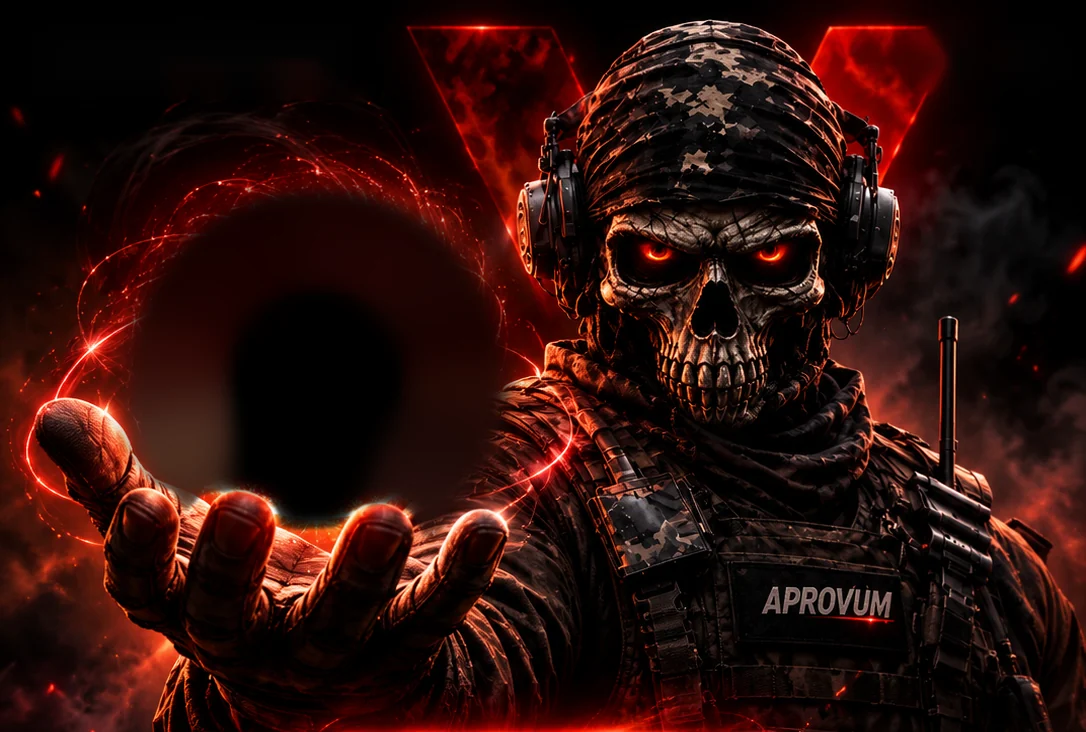
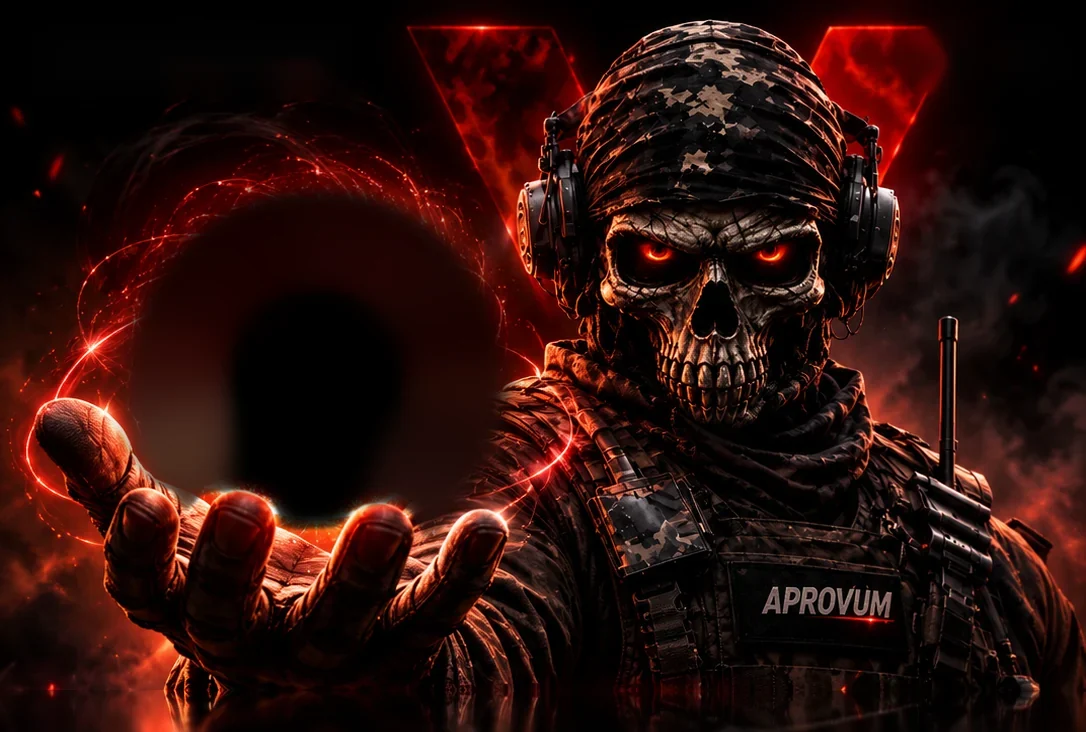
feat(home): esfera deforma com a voz, corpo do Mentor até os cards e novo botão cinematográfico
- contorno da esfera e micropartículas deformam de forma orgânica no ritmo da fala
- corpo da caveira continuado até o início dos cards, sem emenda e dissolvendo em sombra
- botão Falar com o Mentor: placa chanfrada, fonte condensada branca, luz na borda, brilho que segue o dedo e onda de toque
- ondas laterais viram ondas de voz desenhadas com o áudio real (voz do Mentor e microfone)

Claude-Session: https://claude.ai/code/session_01BiS7EyNpzhKpwbwB1NURPB

Changed region(s): [[0.0, 0.9317, 0.8204, 1.0], [0.9116, 0.9317, 1.0, 1.0], [0.8812, 0.9918, 0.9116, 1.0]]

diff --git a/src/components/missao/central-missao.css b/src/components/missao/central-missao.css
@@ -34,11 +34,16 @@
 .hm-avatar:focus-visible, .hm-engrenagem:focus-visible, .hm-voltar:focus-visible, .hm-card:focus-visible, .hm-falar:focus-visible, .hm-rodape a:focus-visible { outline: 2px solid #fff; outline-offset: 3px; }
 
 /* palco: arte do Mentor (caveira + mão aberta) e a esfera viva por cima da esfera da arte */
-.hm-palco { min-height: 0; display: flex; align-items: center; justify-content: center; }
+.hm-palco { --hm-voz-h: 72px; min-height: 0; display: flex; flex-direction: column; align-items: center; justify-content: flex-start; }
 .hm-cena { position: relative; width: 100%; aspect-ratio: 1086 / 732; max-height: 100%; animation: hm-surge 1.1s var(--hm-ease) both; }
 .hm-arte { position: absolute; inset: 0; width: 100%; height: 100%; display: block; object-fit: cover; user-select: none; pointer-events: none;
-  -webkit-mask-image: linear-gradient(180deg, transparent, #000 12%, #000 72%, transparent 100%), linear-gradient(90deg, transparent, #000 6%, #000 88%, transparent);
-  -webkit-mask-composite: source-in; mask-image: linear-gradient(180deg, transparent, #000 12%, #000 72%, transparent 100%), linear-gradient(90deg, transparent, #000 6%, #000 88%, transparent); mask-composite: intersect; }
+  -webkit-mask-image: linear-gradient(180deg, transparent, #000 12%), linear-gradient(90deg, transparent, #000 6%, #000 88%, transparent);
+  -webkit-mask-composite: source-in; mask-image: linear-gradient(180deg, transparent, #000 12%), linear-gradient(90deg, transparent, #000 6%, #000 88%, transparent); mask-composite: intersect; }
+/* o corpo continua a arte para baixo (já escurece até o preto) e passa por trás do botão até o início dos cards; sem fresta entre os dois */
+.hm-corpo { position: relative; flex: 1 1 0; min-height: 0; width: 100%; margin: -1px 0 calc(-1 * var(--hm-voz-h)); pointer-events: none; z-index: 0;
+  background: url(/home/mentor-corpo.webp) center top / 100% 100% no-repeat; animation: hm-aparece 1.1s ease both;
+  -webkit-mask-image: linear-gradient(180deg, #000 55%, transparent 100%), linear-gradient(90deg, transparent, #000 6%, #000 88%, transparent); -webkit-mask-composite: source-in;
+  mask-image: linear-gradient(180deg, #000 55%, transparent 100%), linear-gradient(90deg, transparent, #000 6%, #000 88%, transparent); mask-composite: intersect; }
 
 /* a esfera real: o anel tem raio 0,34 do lado (voz-esfera); o anel da arte mede 336 de 1086 */
 .hm-orb { position: absolute; left: 29.3%; top: 50.3%; width: 31.1%; aspect-ratio: 1; transform: translate(-50%, -50%); display: flex; z-index: 3; pointer-events: none; }
@@ -85,26 +90,39 @@
 /* botão "Falar com o Mentor" */
 .hm-voz { padding: 0 16px; }
 .hm-falar-caixa { display: flex; flex-direction: column; align-items: center; gap: 2px; }
-.hm-falar-linha { display: flex; align-items: center; justify-content: center; gap: 10px; width: 100%; }
-.hm-falar { position: relative; display: inline-flex; align-items: center; justify-content: center; gap: 10px; flex: 0 1 270px; min-height: 52px; padding: 0 22px; font: inherit; font-size: 16px; font-weight: 700; color: var(--hm-gelo); cursor: pointer; -webkit-tap-highlight-color: transparent;
-  background: rgb(0 0 0 / 0.62); border: 1.5px solid var(--cm-red2); border-radius: 999px;
-  box-shadow: 0 0 22px -2px rgb(255 37 45 / 0.6), inset 0 0 18px rgb(215 25 32 / 0.25);
-  transition: background 0.25s, box-shadow 0.3s, transform 0.2s var(--hm-ease); }
-.hm-falar::after { content: ""; position: absolute; inset: -1.5px; border-radius: inherit; border: 1.5px solid var(--cm-red2); pointer-events: none; animation: hm-pulso 2.4s ease-out infinite; }
-@keyframes hm-pulso { 0% { opacity: 0.7; transform: scale(1); } 100% { opacity: 0; transform: scale(1.14, 1.5); } }
-.hm-falar:hover:not(:disabled) { background: rgb(215 25 32 / 0.2); box-shadow: 0 0 34px 0 rgb(255 37 45 / 0.7), inset 0 0 20px rgb(215 25 32 / 0.35); }
-.hm-falar:active:not(:disabled) { transform: scale(0.97); }
-.hm-falar:disabled { opacity: 0.75; cursor: default; }
-.hm-falar[data-estado="ao-vivo"] { background: var(--cm-red); box-shadow: 0 0 40px rgb(255 37 45 / 0.65); }
-.hm-falar[data-estado="ao-vivo"]::after, .hm-falar[data-estado="conectando"]::after { animation: none; opacity: 0; }
+.hm-falar-linha { display: flex; align-items: center; justify-content: center; gap: 8px; width: 100%; }
+@font-face { font-family: "HM Cine"; font-weight: 600; font-style: normal; font-display: swap; src: url("/fonts/BarlowCondensed-SemiBold.woff2") format("woff2"); }
+/* botão: placa chanfrada (mesma linguagem dos cards), borda de luz que corre, vidro fumê, brilho que segue o dedo e onda de toque */
+.hm-falar { --c: 15px; position: relative; isolate: isolate; display: inline-flex; align-items: center; justify-content: center; flex: 0 1 262px; min-height: 58px; padding: 0 18px; font: 600 18px/1 "HM Cine", "Barlow Condensed", "Arial Narrow", Inter, sans-serif; letter-spacing: 0.15em; text-transform: uppercase; color: #fff; cursor: pointer; background: none; border: 0; -webkit-tap-highlight-color: transparent; touch-action: manipulation;
+  filter: drop-shadow(0 0 14px rgb(255 37 45 / 0.45)) drop-shadow(0 8px 14px rgb(0 0 0 / 0.7)); transition: transform 0.25s var(--hm-ease), filter 0.3s; }
+.hm-falar-borda, .hm-falar-face { position: absolute; clip-path: polygon(var(--c) 0, calc(100% - var(--c)) 0, 100% var(--c), 100% calc(100% - var(--c)), calc(100% - var(--c)) 100%, var(--c) 100%, 0 calc(100% - var(--c)), 0 var(--c)); }
+.hm-falar-borda { inset: 0; overflow: hidden; container-type: size; background: linear-gradient(160deg, rgb(255 70 76 / 0.85), rgb(120 12 18 / 0.6) 50%, rgb(255 60 66 / 0.8)); z-index: -2; }
+.hm-falar-borda::before { content: ""; position: absolute; left: 50%; top: 50%; width: 260cqmax; aspect-ratio: 1; translate: -50% -50%; background: conic-gradient(from 0deg, transparent 0 55%, rgb(255 32 44 / 0.95) 85%, #fff 98%, transparent 100%); animation: hm-giro 3.4s linear infinite; will-change: transform; }
+.hm-falar-face { --c: 14.4px; inset: 1.6px; overflow: hidden; z-index: -1; background: linear-gradient(180deg, rgb(34 6 8 / 0.94), rgb(6 0 0 / 0.96)); transition: background 0.35s; }
+.hm-falar-face::before { content: ""; position: absolute; inset: 0; background: radial-gradient(120px circle at var(--mx, 50%) var(--my, 50%), rgb(255 60 64 / 0.38), transparent 70%); opacity: 0; transition: opacity 0.3s; }
+.hm-falar-face::after { content: ""; position: absolute; top: 0; bottom: 0; left: -40%; width: 30%; background: linear-gradient(100deg, transparent, rgb(255 255 255 / 0.22), transparent); transform: skewX(-18deg) translateX(0); opacity: 0; }
+.hm-falar-conteudo { position: relative; display: inline-flex; align-items: center; gap: 10px; white-space: nowrap; text-shadow: 0 0 14px rgb(255 50 56 / 0.75), 0 1px 0 rgb(0 0 0 / 0.6); }
+.hm-falar-conteudo svg { flex: none; filter: drop-shadow(0 0 6px rgb(255 60 66 / 0.9)); }
+.hm-falar-texto { margin-right: -0.15em; }
+@media (hover: hover) {
+  .hm-falar:hover:not(:disabled) { transform: translateY(-1px); filter: drop-shadow(0 0 22px rgb(255 37 45 / 0.75)) drop-shadow(0 8px 14px rgb(0 0 0 / 0.7)); }
+  .hm-falar:hover:not(:disabled) .hm-falar-face::before { opacity: 1; }
+  .hm-falar:hover:not(:disabled) .hm-falar-face::after { opacity: 1; animation: hm-brilho 0.9s var(--hm-ease) both; }
+  .hm-falar:hover:not(:disabled) .hm-falar-borda::before { animation-duration: 1.6s; }
+}
+.hm-falar:active:not(:disabled) { transform: scale(0.965); }
+.hm-falar:active:not(:disabled) .hm-falar-face::before { opacity: 1; }
+.hm-falar:disabled { cursor: default; filter: drop-shadow(0 0 10px rgb(255 37 45 / 0.35)); }
+.hm-falar[data-estado="ao-vivo"] .hm-falar-face { background: linear-gradient(180deg, rgb(215 25 32 / 0.9), rgb(110 8 14 / 0.95)); }
+.hm-falar[data-estado="ao-vivo"] .hm-falar-borda::before { animation-duration: 1.8s; }
+.hm-falar[data-estado="conectando"] .hm-falar-borda::before { animation-duration: 1.1s; }
+.hm-toque { position: absolute; left: var(--x); top: var(--y); width: 12px; height: 12px; margin: -6px 0 0 -6px; border-radius: 50%; pointer-events: none; background: radial-gradient(circle, rgb(255 255 255 / 0.6), rgb(255 60 64 / 0.4) 50%, transparent 72%); animation: hm-toque 0.65s ease-out forwards; }
+@keyframes hm-toque { to { transform: scale(30); opacity: 0; } }
+@keyframes hm-brilho { from { transform: skewX(-18deg) translateX(0); } to { transform: skewX(-18deg) translateX(520%); } }
 .hm-falar-info { min-height: 18px; margin: 0; font-size: 12.5px; color: var(--hm-cinza); text-align: center; }
 
-/* ondas sonoras: só se mexem enquanto a conversa está ao vivo */
-.hm-ondas { display: flex; align-items: center; gap: 3px; height: 30px; flex: 0 0 auto; }
-.hm-ondas:first-child { flex-direction: row-reverse; }
-.hm-ondas i { width: 3px; height: 100%; border-radius: 2px; background: linear-gradient(180deg, #ff6a5a, var(--cm-red)); transform: scaleY(calc(0.18 + (6 - var(--i)) * 0.05)); opacity: calc(0.85 - var(--i) * 0.09); transform-origin: 50% 50%; }
-.hm[data-fase="escutando"] .hm-ondas i, .hm[data-fase="respondendo"] .hm-ondas i { animation: hm-onda 0.9s ease-in-out infinite; animation-delay: calc(var(--i) * -0.13s); }
-@keyframes hm-onda { 0%, 100% { transform: scaleY(0.2); } 50% { transform: scaleY(calc(1 - var(--i) * 0.08)); } }
+/* onda de voz ao lado do botão (canvas desenhado com o áudio real) */
+.hm-onda-voz { flex: 1 1 0; min-width: 0; max-width: 78px; height: 38px; display: block; pointer-events: none; }
 .hm-gira { animation: hm-giro 0.8s linear infinite; }
 @keyframes hm-giro { to { rotate: 360deg; } }
 
@@ -176,6 +194,7 @@
 /* celular: a arte passa um pouco da largura da tela (as bordas são só fumaça) para o Mentor ocupar mais do palco */
 @media (max-width: 599px) {
   .hm-cena { flex: none; width: 116%; left: 4.5%; }
+  .hm-corpo { flex-basis: 0; width: 116%; left: 4.5%; }
 }
 
 /* telas baixas: cards menores para o Mentor continuar inteiro */
@@ -189,8 +208,9 @@
     grid-template-areas: "topo topo" "palco voz" "palco cards" "rodape rodape"; align-items: center; }
   .hm-topo { grid-area: topo; padding: 20px 40px 0; }
   .hm-logo { height: 32px; }
-  .hm-palco { grid-area: palco; padding: 0 0 0 24px; height: 100%; }
+  .hm-palco { grid-area: palco; padding: 0 0 0 24px; height: 100%; justify-content: center; --hm-voz-h: 0px; }
   .hm-cena { width: min(100%, calc((100dvh - 150px) * 1.483)); }
+  .hm-corpo { flex: none; width: min(100%, calc((100dvh - 150px) * 1.483)); height: clamp(70px, 15dvh, 150px); }
   .hm-voz { grid-area: voz; align-self: end; padding: 0 40px 0 16px; }
   .hm-cards { grid-area: cards; align-self: start; padding: 20px 40px 0 16px; gap: 18px; }
   .hm-card { height: clamp(240px, 38dvh, 360px); --c: 24px; }

diff --git a/src/components/missao/falar-mentor.tsx b/src/components/missao/falar-mentor.tsx
@@ -1,6 +1,6 @@
 "use client";
 
-import { useState, type CSSProperties } from "react";
+import { useEffect, useRef, useState, type PointerEvent as PE, type RefObject } from "react";
 import { Loader2, Mic, PhoneOff } from "lucide-react";
 import { MentorVoz, type EstadoVoz } from "@/components/mentor/mentor-voz";
 import type { Bands, Conexao } from "@/components/mentor/skull-orb-fx";
@@ -19,6 +19,9 @@ export type FaseMentor = "repouso" | "processando" | "escutando" | "respondendo"
  */
 export function FalarComMentor({ ativo, onAtivo, onNivel, onConn, onFase }: { ativo: boolean; onAtivo: (v: boolean) => void; onNivel: (fn: (() => Bands) | null) => void; onConn: (c: Conexao) => void; /** Estado real da conversa, para a cena reagir (repouso, escutando, processando, respondendo, erro). */ onFase?: (f: FaseMentor) => void }) {
   const [e, setE] = useState<EstadoVoz | null>(null);
+  // a mesma fonte de áudio real que alimenta a esfera também desenha as ondas ao lado do botão
+  const fonteRef = useRef<(() => Bands) | null>(null);
+  const caixaRef = useRef<HTMLSpanElement | null>(null);
   const [aviso, setAviso] = useState<string | null>(null);
   const fase = ativo ? e?.fase ?? "carregando" : "pronto";
   const aoVivo = fase === "ao-vivo";
@@ -31,7 +34,7 @@ export function FalarComMentor({ ativo, onAtivo, onNivel, onConn, onFase }: { at
     // plano gratuito, saldo esgotado ou falha: a sessão não abre, então o botão volta a ficar livre
     if (x.fase === "plano" || x.fase === "esgotado" || x.fase === "indisponivel" || x.fase === "erro" || x.fase === "encerrada") {
       setAviso(x.msg ?? AVISO[x.fase] ?? null);
-      onNivel(null);
+      onNivel(null); fonteRef.current = null;
       queueMicrotask(() => onAtivo(false));
     }
   };
@@ -44,34 +47,51 @@ export function FalarComMentor({ ativo, onAtivo, onNivel, onConn, onFase }: { at
           autoStart
           boasVindas
           onEstado={estado}
-          onLevel={onNivel}
+          onLevel={(fn) => { fonteRef.current = fn; onNivel(fn); }}
         />
       )}
       <div className="hm-falar-linha">
-      <Ondas />
-      <button
-        type="button"
-        className="hm-falar"
-        data-estado={aoVivo ? "ao-vivo" : conectando ? "conectando" : "parado"}
-        aria-pressed={aoVivo}
-        disabled={conectando}
-        onClick={() => {
-          if (ativo) {
-            onNivel(null);
-            onConn("live");
-            onFase?.("repouso");
-            onAtivo(false);
-          } else {
-            setE(null);
-            setAviso(null);
-            onAtivo(true);
-          }
-        }}
-      >
-        {conectando ? <Loader2 size={17} className="hm-gira" aria-hidden /> : aoVivo ? <PhoneOff size={17} aria-hidden /> : <Mic size={17} aria-hidden />}
-        <span>{conectando ? "Conectando…" : aoVivo ? "Encerrar conversa" : "Falar com o Mentor"}</span>
-      </button>
-      <Ondas />
+        <OndaVoz lado="e" fonte={fonteRef} ativo={aoVivo} />
+        <button
+          type="button"
+          className="hm-falar"
+          data-estado={aoVivo ? "ao-vivo" : conectando ? "conectando" : "parado"}
+          aria-pressed={aoVivo}
+          disabled={conectando}
+          onPointerMove={(ev: PE<HTMLButtonElement>) => {
+            const r = ev.currentTarget.getBoundingClientRect();
+            ev.currentTarget.style.setProperty("--mx", `${ev.clientX - r.left}px`);
+            ev.currentTarget.style.setProperty("--my", `${ev.clientY - r.top}px`);
+          }}
+          onPointerDown={(ev: PE<HTMLButtonElement>) => {
+            // onda de toque que nasce no ponto exato do dedo
+            const alvo = caixaRef.current; if (!alvo) return;
+            const r = ev.currentTarget.getBoundingClientRect();
+            const t = document.createElement("i"); t.className = "hm-toque";
+            t.style.setProperty("--x", `${ev.clientX - r.left}px`); t.style.setProperty("--y", `${ev.clientY - r.top}px`);
+            t.addEventListener("animationend", () => t.remove()); alvo.appendChild(t);
+          }}
+          onClick={() => {
+            if (ativo) {
+              onNivel(null); fonteRef.current = null;
+              onConn("live");
+              onFase?.("repouso");
+              onAtivo(false);
+            } else {
+              setE(null);
+              setAviso(null);
+              onAtivo(true);
+            }
+          }}
+        >
+          <span className="hm-falar-borda" aria-hidden />
+          <span className="hm-falar-face" aria-hidden ref={caixaRef} />
+          <span className="hm-falar-conteudo">
+            {conectando ? <Loader2 size={18} className="hm-gira" aria-hidden /> : aoVivo ? <PhoneOff size={18} aria-hidden /> : <Mic size={18} aria-hidden />}
+            <span className="hm-falar-texto">{conectando ? "Conectando" : aoVivo ? "Encerrar" : "Falar com o Mentor"}</span>
+          </span>
+        </button>
+        <OndaVoz lado="d" fonte={fonteRef} ativo={aoVivo} />
       </div>
       <p className="hm-falar-info" role="status" aria-live="polite">
         {aoVivo ? (e?.speaking ? "Mentor falando" : "Mentor ouvindo") : ativo ? null : aviso}
@@ -80,11 +100,59 @@ export function FalarComMentor({ ativo, onAtivo, onNivel, onConn, onFase }: { at
   );
 }
 
-/** Barras de som ao lado do botão: só se mexem com a conversa ao vivo (o CSS lê o data-estado do botão vizinho). */
-function Ondas() {
-  return (
-    <span className="hm-ondas" aria-hidden>
-      {[0, 1, 2, 3, 4, 5, 6].map((i) => <i key={i} style={{ "--i": i } as CSSProperties} />)}
-    </span>
-  );
+/**
+ * Onda de voz ao lado do botão: linhas senoidais em camadas (estilo assistente de voz) desenhadas num canvas.
+ * A amplitude segue o áudio real (voz do Mentor e microfone do aluno); em repouso é só uma respiração discreta.
+ */
+function OndaVoz({ lado, fonte, ativo }: { lado: "e" | "d"; fonte: RefObject<(() => Bands) | null>; ativo: boolean }) {
+  const ref = useRef<HTMLCanvasElement | null>(null);
+  const ativoRef = useRef(ativo);
+  useEffect(() => { ativoRef.current = ativo; }, [ativo]);
+  useEffect(() => {
+    const cv = ref.current; if (!cv) return;
+    const ctx = cv.getContext("2d"); if (!ctx) return;
+    const reduzir = window.matchMedia("(prefers-reduced-motion: reduce)").matches;
+    let w = 0, h = 0, dpr = 1, raf = 0, ultimo = 0, nivel = 0, fase = 0, visivel = true;
+    const medir = () => {
+      dpr = Math.min(2, window.devicePixelRatio || 1);
+      w = cv.clientWidth; h = cv.clientHeight;
+      cv.width = Math.max(1, Math.round(w * dpr)); cv.height = Math.max(1, Math.round(h * dpr));
+      ctx.setTransform(dpr, 0, 0, dpr, 0, 0);
+    };
+    medir();
+    const ro = new ResizeObserver(medir); ro.observe(cv);
+    const io = new IntersectionObserver(([en]) => { visivel = !!en?.isIntersecting; }); io.observe(cv);
+    // camadas: [frequência, velocidade, amplitude relativa, espessura, alfa, branco]
+    const camadas: [number, number, number, number, number, boolean][] = [
+      [1.7, 2.3, 0.6, 3.4, 0.18, false], [2.3, -3.1, 0.8, 2.2, 0.35, false], [3.1, 4.2, 1, 1.5, 0.95, true],
+    ];
+    const desenhar = (t: number) => {
+      const dt = Math.min(0.05, (t - ultimo) / 1000 || 0.016); ultimo = t;
+      const b = ativoRef.current ? fonte.current?.() : null;
+      const alvo = b ? Math.min(1, Math.max(b.me ?? b.vol ?? 0, (b.mic ?? 0) * 1.1)) : 0;
+      nivel += (alvo - nivel) * (1 - Math.exp(-dt * (alvo > nivel ? 14 : 6)));
+      fase += dt * (0.8 + nivel * 2.4);
+      ctx.clearRect(0, 0, w, h);
+      const meio = h / 2;
+      const base = ativoRef.current ? 0.09 : 0.14 + 0.05 * Math.sin(t / 900);
+      const amp = (base + nivel * 0.95) * (h * 0.46);
+      for (const [f, v, k, esp, alfa, branco] of camadas) {
+        ctx.beginPath();
+        for (let x = 0; x <= w; x += 1.5) {
+          const u = x / w;                                   // 0 = lado do botão, 1 = ponta externa
+          const lado_u = lado === "e" ? 1 - u : u;           // 0 junto ao botão, 1 na ponta
+          const env = Math.pow(Math.sin(Math.PI * Math.min(1, (1 - lado_u) * 0.92 + 0.04)), 1.1) * (1 - lado_u * 0.35);
+          const y = meio + Math.sin(lado_u * Math.PI * 2 * f - fase * v) * amp * k * env + Math.sin(lado_u * 9 + fase * 1.7 * k) * amp * 0.12 * env * nivel;
+          if (x === 0) ctx.moveTo(x, y); else ctx.lineTo(x, y);
+        }
+        ctx.lineWidth = esp; ctx.lineJoin = "round"; ctx.lineCap = "round";
+        ctx.strokeStyle = branco ? `rgba(255,236,232,${alfa})` : `rgba(255,48,56,${alfa})`;
+        ctx.stroke();
+      }
+    };
+    const laco = (t: number) => { raf = requestAnimationFrame(laco); if (visivel && !document.hidden) desenhar(t); };
+    if (reduzir) desenhar(0); else raf = requestAnimationFrame(laco);
+    return () => { cancelAnimationFrame(raf); ro.disconnect(); io.disconnect(); };
+  }, [lado, fonte]);
+  return <canvas ref={ref} className="hm-onda-voz" data-lado={lado} aria-hidden />;
 }

diff --git a/src/components/mentor-cena/mentor-orb-3d.ts b/src/components/mentor-cena/mentor-orb-3d.ts
@@ -1,5 +1,5 @@
 import * as THREE from "three";
-import { OCLUSAO, RUIDO } from "./glsl";
+import { DEFORMA_VOZ, OCLUSAO, RUIDO } from "./glsl";
 import type { AlvoCena } from "./estado-mentor";
 import type { Qualidade } from "./qualidade";
 
@@ -48,6 +48,7 @@ const FRAG_PLASMA = /* glsl */ `
 precision highp float;
 ${RUIDO}
 ${OCLUSAO}
+${DEFORMA_VOZ}
 uniform float uTime, uBrilho, uPulso, uEspiral, uAudio;
 varying vec2 vP;
 void main(){
@@ -57,7 +58,7 @@ void main(){
   float e1 = noise(cs * 2.0 + vec2(t * .55, t * .3));
   float e2 = noise(cs * 5.0 + vec2(-t * .7, t * .4 + 4.));
   float e3 = noise(cs * 13.0 + vec2(t * 1.1, 9.));
-  float rr = 1.0 + (e1 - .5) * .06 + (e2 - .5) * .032 + (e3 - .5) * .01 + uPulso * .01 * sin(t * 1.5);
+  float rr = 1.0 + (e1 - .5) * .06 + (e2 - .5) * .032 + (e3 - .5) * .01 + uPulso * .01 * sin(t * 1.5) + deformaVoz(cs, t, uAudio);
   float d = len - rr;
   float w = .02 + .012 * e2;
   float quente = exp(-d * d / (w * w));
@@ -85,9 +86,10 @@ void main(){
 
 /** Micropartículas dentro da esfera: pairam à deriva (sem giro), com profundidade de campo, luz rasante nas bordas e cintilações raras. */
 const VERT_INTERNAS = /* glsl */ `
+${DEFORMA_VOZ}
 attribute vec3 aS; // x: frequência de cintilação, y: tamanho (0 a 1), z: fase
 attribute vec4 aD; // frequências de deriva em x, y e z e a amplitude
-uniform vec2 uCenter; uniform float uR, uAnim, uPx, uEspiral;
+uniform vec2 uCenter; uniform float uR, uAnim, uPx, uEspiral, uTime, uAudio;
 varying float vA; varying float vSoft; varying float vQ; varying float vGlint;
 void main(){
   float t = uAnim;
@@ -101,6 +103,8 @@ void main(){
   float ay = t * .03; float cy = cos(ay), sy = sin(ay);
   p = vec3(cy * p.x + sy * p.z, p.y, -sy * p.x + cy * p.z);
   p *= min(1., .93 / max(length(p), .0001));
+  // o interior acompanha a deformação do contorno (mais perto da borda, mais acompanha)
+  p.xy *= 1. + deformaVoz(normalize(p.xy + vec2(1e-5)), uTime, uAudio) * length(p.xy);
   float prof = p.z * .5 + .5;
   gl_Position = projectionMatrix * viewMatrix * vec4(uCenter + p.xy * uR, 0., 1.);
   float tam = 1. + aS.y * aS.y * 3.4;
@@ -248,7 +252,7 @@ export class MentorOrb3D {
     }
     const gI = new THREE.BufferGeometry();
     gI.setAttribute("position", new THREE.BufferAttribute(pos, 3)); gI.setAttribute("aS", new THREE.BufferAttribute(seed, 3)); gI.setAttribute("aD", new THREE.BufferAttribute(deriva, 4));
-    this.internasMat = materialAditivo({ vertexShader: VERT_INTERNAS, fragmentShader: FRAG_INTERNAS, uniforms: { ...base } });
+    this.internasMat = materialAditivo({ vertexShader: VERT_INTERNAS, fragmentShader: FRAG_INTERNAS, uniforms: { ...base, uAudio: this.uniforms.uAudio } });
     this.internas = new THREE.Points(gI, this.internasMat);
     this.internas.frustumCulled = false; this.internas.renderOrder = 11;
 
@@ -284,7 +288,7 @@ export class MentorOrb3D {
   private comuns: UniformsComuns;
 
   /** OrbAnimationController: levitação lenta e respiração suave guiada pelo áudio (já suavizado). Nada é emitido da esfera. */
-  atualizar(dt: number, e: AlvoCena, audio: number, escala = 1) {
+  atualizar(dt: number, e: AlvoCena, audio: number, escala = 1, deforma = 0) {
     this.tempo += dt;
     this.anim += dt * e.rapidez;
     const t = this.tempo;
@@ -294,7 +298,7 @@ export class MentorOrb3D {
     u.uCenter.value.set(this.cx, this.cy);
     u.uTime.value = t; u.uAnim.value = this.anim;
     u.uBrilho.value = e.brilho * (0.95 + 0.05 * Math.sin(t * 1.3));
-    u.uPulso.value = e.pulso; u.uEspiral.value = e.espiral; u.uAudio.value = audio;
+    u.uPulso.value = e.pulso; u.uEspiral.value = e.espiral; u.uAudio.value = deforma;
     // contração e expansão da esfera inteira (anel, núcleo, micropartículas e luz) no ritmo da voz
     u.uR.value = PALMA.raio * escala;
     this.comuns.uOrbR.value = PALMA.raio * escala;

diff --git a/src/components/mentor-cena/glsl.ts b/src/components/mentor-cena/glsl.ts
@@ -17,3 +17,15 @@ uniform vec2 uRes;
 float ocluido(float forca){ return texture2D(uMatte, gl_FragCoord.xy / uRes).r * forca; }
 float ocluidoMao(float forca){ return texture2D(uMatte, gl_FragCoord.xy / uRes).g * forca; }
 `;
+
+/**
+ * Deformação do contorno pela voz (estilo orb de voz): harmônicas angulares inteiras (sem emenda) que giram em velocidades
+ * diferentes; `a` (0 a 1) é a energia da fala já suavizada. Devolve a variação do raio relativa ao raio da esfera.
+ */
+export const DEFORMA_VOZ = /* glsl */ `
+float deformaVoz(vec2 dir, float t, float a){
+  float g = atan(dir.y, dir.x);
+  float d = .5 * sin(g * 2. + t * 1.9) + .36 * sin(g * 3. - t * 2.6 + 1.3) + .22 * sin(g * 4. + t * 3.4 + 2.1) + .12 * sin(g * 6. - t * 4.3);
+  return d * min(1., a * 1.25) * .115;
+}
+`;

diff --git a/src/components/mentor-cena/mentor-engine.ts b/src/components/mentor-cena/mentor-engine.ts
@@ -96,7 +96,7 @@ export function criarMotor(canvas: HTMLCanvasElement, op: OpcoesMotor): MotorCen
     tempo += dt;
     lerAudio(dt);
     atual = suavizar(atual, alvoDaFase(fase, audio), dt, 2.2);
-    orb.atualizar(dt, atual, audio, escalaDaVoz(fala, audio));
+    orb.atualizar(dt, atual, audio, escalaDaVoz(fala, audio), audio * fala);
     brasas.atualizar(dt, atual, tempo);
   };
   const desenhar = () => renderer.render(scene, camera);

diff --git a/src/components/missao/central-missao.tsx b/src/components/missao/central-missao.tsx
@@ -118,6 +118,8 @@ export function CentralMissao({ primeiroNome, email, objetivo, materias, concurs
             </>
           )}
         </div>
+        {/* continuação do corpo: segue a arte sem emenda e termina em sombra exatamente onde começam os cards */}
+        <div className="hm-corpo" aria-hidden />
       </section>
 
       <div className="hm-voz">
